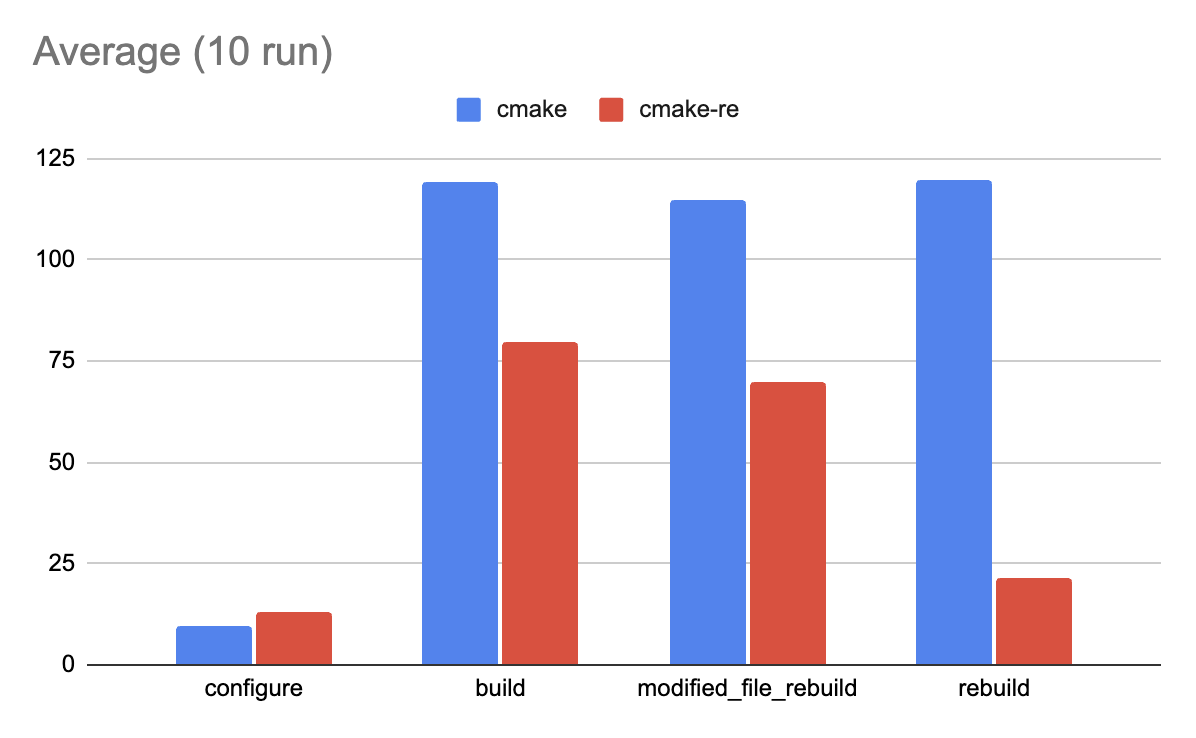
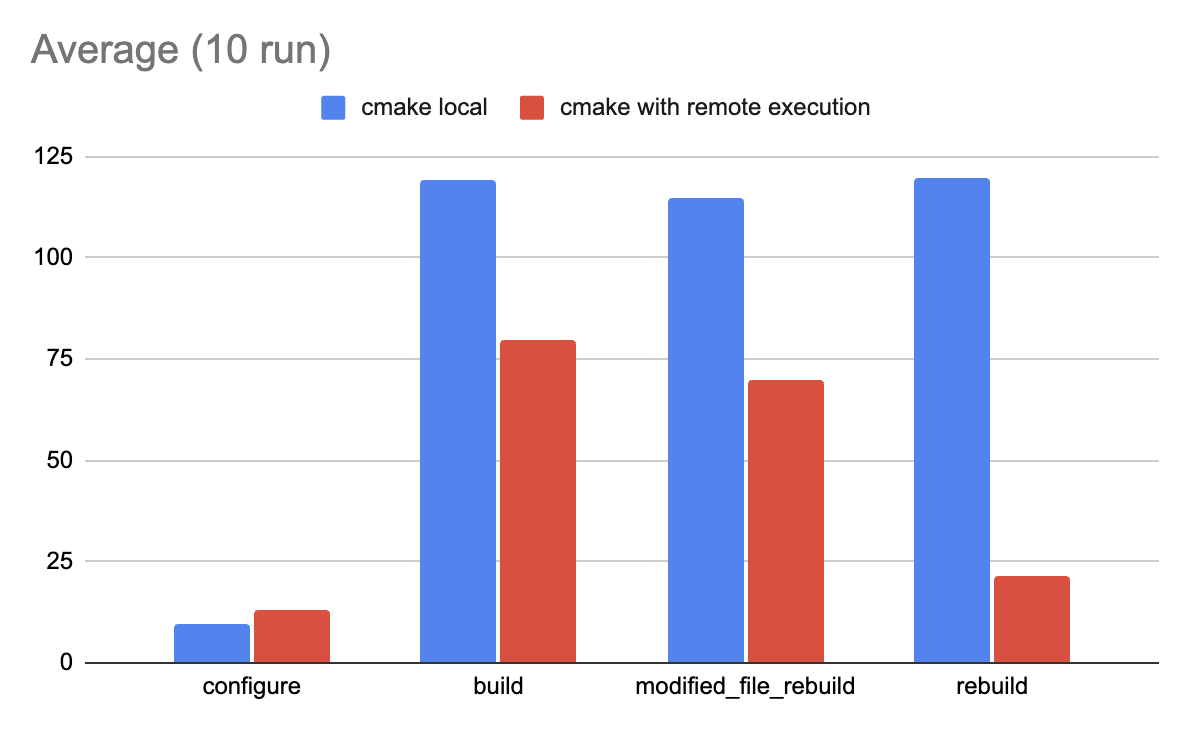
🔧 rename and add sheet compare

diff --git a/README.md b/README.md
@@ -49,6 +49,13 @@ This reference provided results have been produced by running the benchmark as d
   | **median** | **13.01** | **79.74** | **72.48** | **21.36** |                                   
   | **P90** | **13.081** | **89.841** | **78.592** | **21.64** |  
 
+
+  | Statistic | `cmake configure` | `cmake-re configure` | `cmake build` | `cmake-re build` | `cmake modified file rebuild` | `cmake-re modified file rebuild` | `cmake rebuild` | `cmake-re rebuild` |
+|---|---|---|---|---|---|---|---|---|
+| **average** | 9.793 | 13.021 | 119.399 | 79.824 | 114.994 | 69.826 | 119.59 | 21.316 |
+| **median** | 9.8 | 13.01 | 119.445 | 79.74 | 115.05 | 72.48 | 119.685 | 21.36 |
+| **P90** | 9.83 | 13.081 | 119.691 | 89.841 | 115.268 | 78.592 | 120.01 | 21.64 |
+
 ## To run this benchmark:
 
 An `engflow-mtls` folder (with all credentials inside) should be present in the machine's home directory
